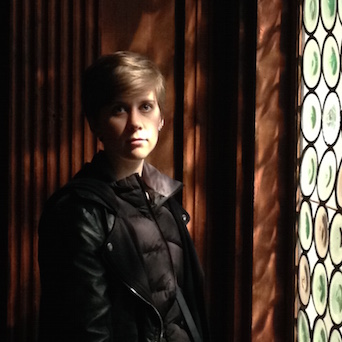
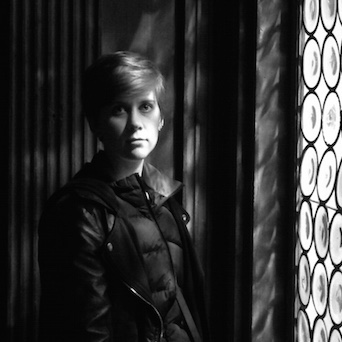
update about

diff --git a/about/index.html b/about/index.html
@@ -28,7 +28,7 @@
       <div class="right-div"></div>
       <section class="about">
         <article class="about-inside" id="about">
-          <figure><img src="../img/museum.JPG" alt="Sarah June Fischer"></figure>
+          <figure><img src="../img/headshot-2.jpg" alt="Sarah June Fischer"></figure>
           <div class="about-text">
             <h2>ABOUT</h2>
               <p>Well hello! Thanks for making your way to my portfolio.</p>
